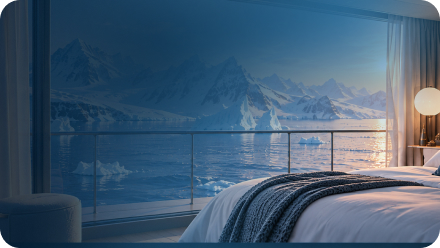
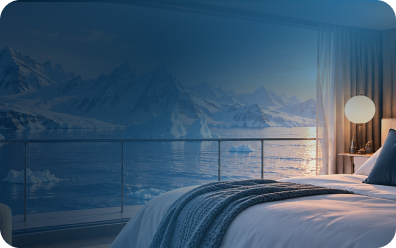
copy and images change

diff --git a/src/markup/popup.html b/src/markup/popup.html
@@ -3,10 +3,9 @@
         <div class="kapsula-popup__layout">
             <div class="kapsula-popup__main">
                 <div class="kapsula-copy kapsula-copy--popup">
-                    <h2 class="kapsula-copy__title" id="kapsula-popup-title">Ваш сценарий<br>Нового года — готов</h2>
+                    <h2 class="kapsula-copy__title" id="kapsula-popup-title">Кругосветный круиз уже на горизонте!</h2>
                     <p class="kapsula-popup__text">
-                        Персональный менеджер подберёт отель,
-                        максимально соответствующий вашему сценарию праздника.
+                        Оставьте свои контактные данные, и уже в течение пары минут с вами свяжется персональный менеджер. Он поможет выбрать программу, расскажет про лайнер и поможет с бронированием.
                     </p>
                 </div>
 
@@ -159,8 +158,7 @@
                     </div>
 
                     <coral-button trait="vivid" shape="rounded">
-                        <button class="kapsula-button kapsula-popup-form__submit" type="submit">Получить персональную
-                            подборку
+                        <button class="kapsula-button kapsula-popup-form__submit" type="submit">Отправиться в плавание
                         </button>
                     </coral-button>
                     <p class="kapsula-popup-form__submit-error" id="kapsula-popup-submit-error"
@@ -172,8 +170,8 @@
 
         <div class="kapsula-popup__success" data-kapsula-popup-success hidden>
             <p class="kapsula-popup__success-text">
-                Спасибо! Стилист вашего отдыха уже готовит для вас персональную подборку, которая учитывает все ваши
-                пожелания, и скоро с вами свяжется.
+                Спасибо!
+                Персональный менеджер свяжется с вами в ближайшее время для уточнения деталей.
             </p>
             <a class="kapsula-button kapsula-popup__success-button" href="/">
                 На главную
